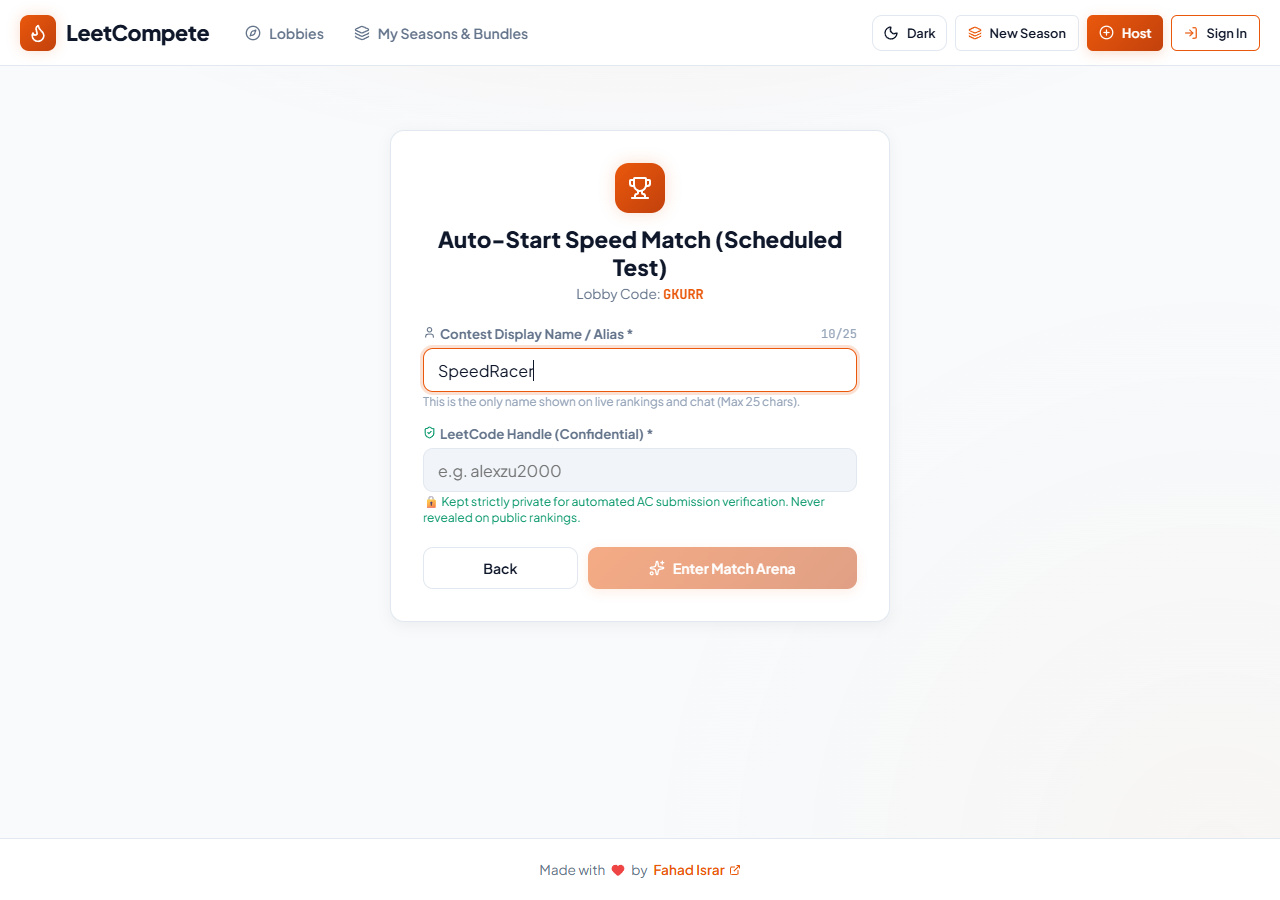
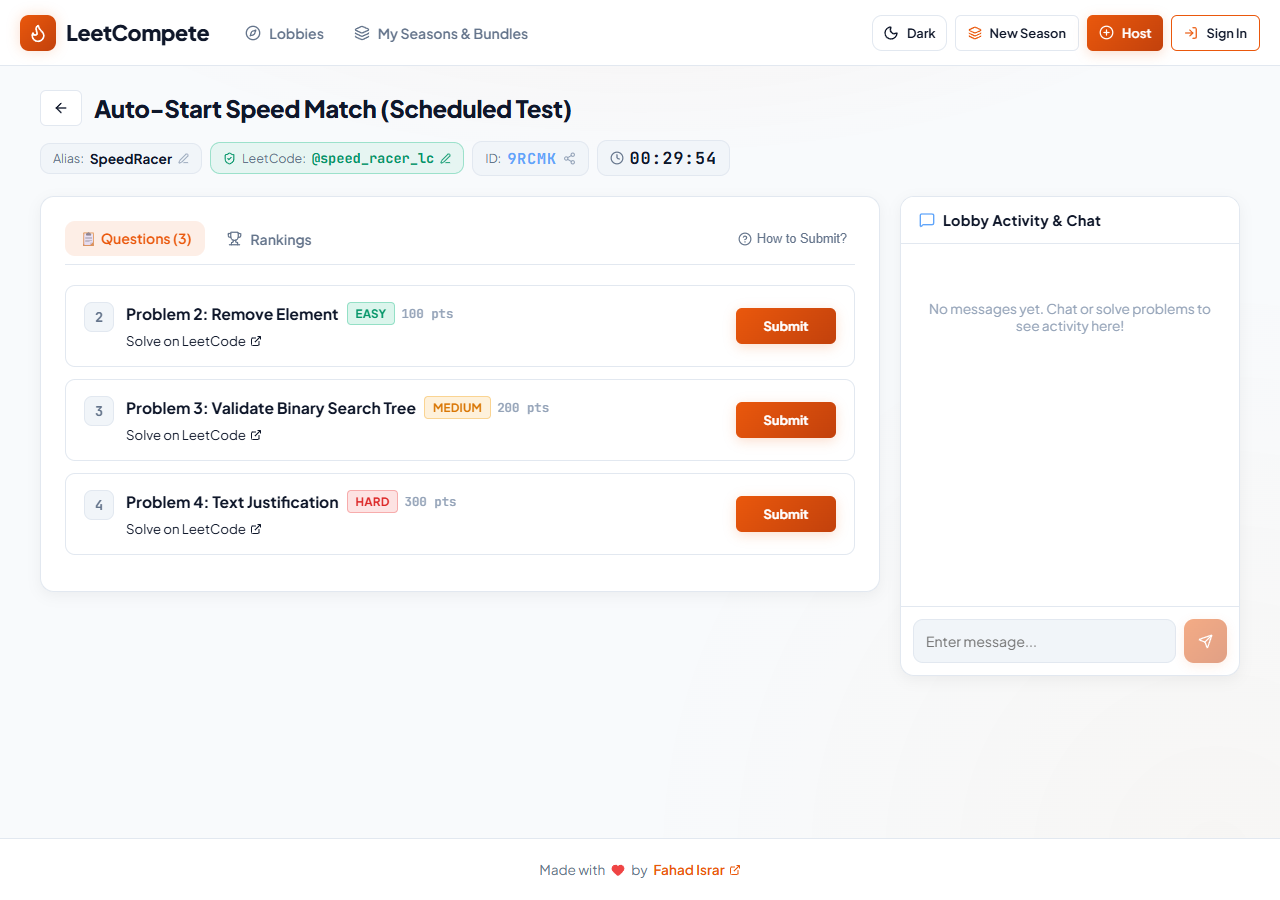
perf(polling): optimize polling with Page Visibility API to preserve AWS Free Tier

diff --git a/frontend/src/components/LobbyArena.jsx b/frontend/src/components/LobbyArena.jsx
@@ -64,16 +64,15 @@ export default function LobbyArena({ contestCode, onBack, currentUser }) {
     }
   }, [contestCode, currentUser]);
 
-  // Adaptive auto-polling for serverless real-time updates
+  // Adaptive auto-polling for serverless real-time updates (Cost-optimized for AWS Free Tier)
   useEffect(() => {
     if (!contest?.id) return;
+    if (contest.status === 'FINISHED') return; // Stop polling completely once match is finished
 
-    // Fast poll (2s) if waiting for prescheduled start time
-    const now = Math.floor(Date.now() / 1000);
-    const isWaitingScheduled = contest.status === 'WAITING' && contest.scheduledStartTime && now >= (contest.scheduledStartTime - 5);
-    const pollInterval = isWaitingScheduled ? 2000 : 6000;
+    const runPoll = async () => {
+      // If browser tab is hidden/minimized, skip polling to avoid consuming AWS Free Tier invocations
+      if (document.hidden) return;
 
-    const interval = setInterval(async () => {
       try {
         const updated = await api.getContest(contestCode);
         if (updated && updated.id) {
@@ -86,8 +85,14 @@ export default function LobbyArena({ contestCode, onBack, currentUser }) {
           }
         } catch (e) {}
       } catch (e) {}
-    }, pollInterval);
+    };
 
+    // Fast poll (2s) when right at scheduled start time; otherwise 6s
+    const now = Math.floor(Date.now() / 1000);
+    const isWaitingScheduled = contest.status === 'WAITING' && contest.scheduledStartTime && now >= (contest.scheduledStartTime - 5);
+    const pollInterval = isWaitingScheduled ? 2000 : 6000;
+
+    const interval = setInterval(runPoll, pollInterval);
     return () => clearInterval(interval);
   }, [contest?.id, contest?.status, contest?.scheduledStartTime, contestCode]);
 
